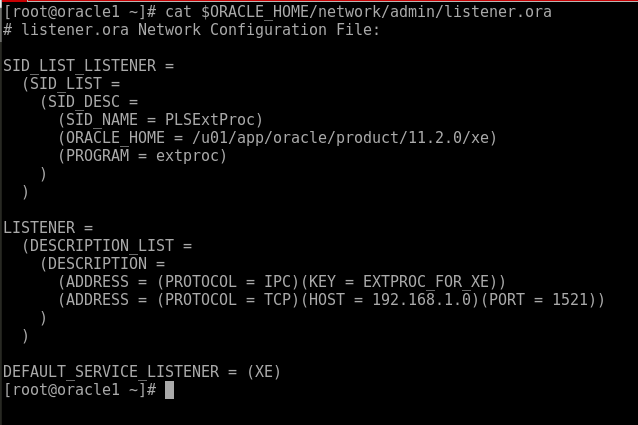
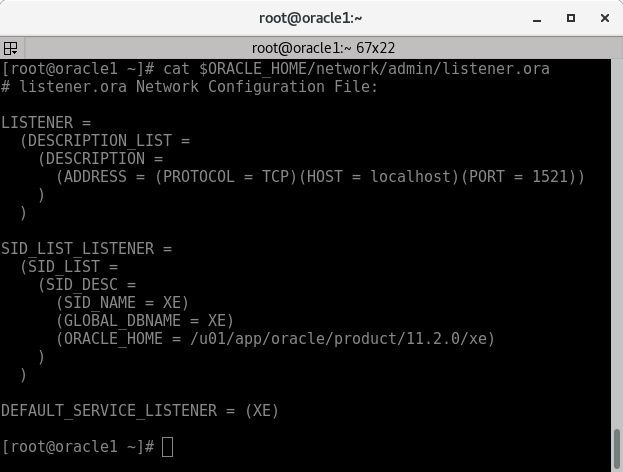
Avance en interconexión de base de datos

diff --git a/docs/css/extra.css b/docs/css/extra.css
@@ -1,14 +1,17 @@
 h1 {
 	color: red !important;
+	
 }
 
 h2{
 	margin-top: 4rem !important;
+	color: red !important;
 }
 
 h3{
 	margin-left: 10px !important;
 	margin-top: 2rem !important;
+	color: red !important;
 }
 
 code{

diff --git a/docs/blog/BBDD_1.md b/docs/blog/BBDD_1.md
@@ -18,37 +18,37 @@ Tenemos 2 máquinas Centos con Oracle 11g XE levantadas mediante Vagrant y Virtu
 ``` bash
 Vagrant.configure("2") do |config|
 
-  config.vm.define "nodo1" do |nodo1|
+	config.vm.define "nodo1" do |nodo1|
 
-    config.vm.provider "virtualbox" do |vb|
-      vb.name = "oracle1"
-      vb.memory = 2048
-      vb.cpus = 1
-    end
+		config.vm.provider "virtualbox" do |vb|
+			vb.name = "oracle1"
+			vb.memory = 2048
+			vb.cpus = 1
+		end
 
-    nodo1.vm.box = "neko-neko/centos6-oracle-11g-XE"
-    nodo1.vm.hostname = "oracle1"
-    nodo1.vm.network "public_network",
-      bridge: "wlan0", 
-      use_dhcp_assigned_default_route: true
+		nodo1.vm.box = "neko-neko/centos6-oracle-11g-XE"
+		nodo1.vm.hostname = "oracle1"
+		nodo1.vm.network "public_network",
+			bridge: "wlan0", 
+			use_dhcp_assigned_default_route: true
 
-  end
+	end
 
-  config.vm.define "nodo2" do |nodo2|
+	config.vm.define "nodo2" do |nodo2|
 
-    config.vm.provider "virtualbox" do |vb|
-      vb.name = "oracle2"
-      vb.memory = 2048
-      vb.cpus = 1
-    end
+		config.vm.provider "virtualbox" do |vb|
+			vb.name = "oracle2"
+			vb.memory = 2048
+			vb.cpus = 1
+		end
 
-    nodo2.vm.box = "neko-neko/centos6-oracle-11g-XE"
-    nodo2.vm.hostname = "oracle2"
-    nodo2.vm.network "public_network",
-      bridge: "wlan0",
-      use_dhcp_assigned_default_route: true
+		nodo2.vm.box = "neko-neko/centos6-oracle-11g-XE"
+		nodo2.vm.hostname = "oracle2"
+		nodo2.vm.network "public_network",
+			bridge: "wlan0",
+			use_dhcp_assigned_default_route: true
 
-  end
+	end
 
 end
 ```
@@ -74,23 +74,38 @@ EOF
 
 ### Fichero `listener.ora` en "servidor"
 
+Este apartado es para el servidor de escucha.
+
 Lo primero será modificar el fichero de configuración `listener.ora`. En este fichero podremos configurar el interlocutor de oracle(listener) el cual se encarga de aceptar peticiones remotas desde la red(TCP). Lo encontraremos en el directorio `$ORACLE_HOME/network/admin`. 
 
 * Quedaría algo así:
-``` bash
+``` sql
 LISTENER =
-  (DESCRIPTION_LIST =
-    (DESCRIPTION =
-      (ADDRESS = (PROTOCOL = IPC)(KEY = EXTPROC_FOR_XE))
-      (ADDRESS = (PROTOCOL = TCP)(HOST = localhost)(PORT = 1521))
-      (ADDRESS = (PROTOCOL = TCP)(HOST = 192.168.1.24)(PORT = 1522)) ## En 12c es necesario en 11g no.
+	(DESCRIPTION_LIST =
+		(DESCRIPTION =
+			(ADDRESS = (PROTOCOL = TCP)(HOST = localhost)(PORT = 1521))
+		)
+	)
+
+SID_LIST_LISTENER =
+  (SID_LIST =
+    (SID_DESC =
+      (SID_NAME = XE)
+      (GLOBAL_DBNAME = XE)
+      (ORACLE_HOME = /u01/app/oracle/product/11.2.0/xe)
     )
   )
+
+DEFAULT_SERVICE_LISTENER = (XE)
 ```
 
-!!! note ""
-  `HOST` es la ip o nombre de la máquina dónde se encuentra la instancia de Oracle, en este caso del "servidor". Podemos utilizar tantos nombres e ips que tenga.
-  `PORT` utilizamos uno distinto para cada uno.
+Lo que tenemos lo dividimos en 2 partes:
+
+* LISTENER:
+Es dónde especificamos los protocolos,IPS o nombres(HOST), puertos y etc. desde los que se podrán conectar remotamente a este servidor.
+
+* SID_LIST_LISTENER:
+Son los nombres de los servicios de escucha dónde especificamos los nombres de las instancias y directorio de las bases de datos.
 
 ![](../../img/interconexionBBDD/captura1.png)
 
@@ -99,25 +114,100 @@ LISTENER =
 lsnrctl stop && lsnrctl start
 ```
 
-!!! note ""
-	Esta acción tardará un poco( En 12c tarda en 11g no).
+* Vemos el estado del listener:
+``` bash
+lsnrctl status
+```
+
+![](../../img/interconexionBBDD/captura2.png)
+
+* Para averiguar el `SID_NAME`, `GLOBAL_DBNAME` y el nombre del servidor:
+``` sql
+SELECT SYS_CONTEXT('USERENV','INSTANCE_NAME') FROM dual;
+
+SELECT * FROM global_name;
+
+SELECT SYS_CONTEXT('USERENV', 'SERVER_HOST') FROM dual;
+```
+
+![](../../img/interconexionBBDD/captura3.png)
+
+!!! note "¿ Qué es el `SID_NAME` ?"
+	Identificador del Sistema Oracle: Es un nombre único para una instancia de Oracle Database en un host concreto. El identificador del sistema Oracle (SID) ayuda a identificar el archivo de control así como a ubicar los archivos necesarios para abrir la base de datos. Suele ser el mismo que el del `GLOBAL_DBNAME`.
 
 <hr class="h3">
 
 ### Fichero `tnsnames.ora` en "cliente"
 
-* Encontrar SID en servidor:
+Este apartado es para el cliente desde el cual nos conectaremos.
+
+Primero realizaremos varias pruebas para verificar que tenemos conexión con el servidor de escucha.
+
+* Pruebas con `tnsping`:
 ``` bash
+tnsping 192.168.1.31
+```
+
+![](../../img/interconexionBBDD/captura4.png)
+
+Como vemos el primer intento a `192.168.1.31`(Servidor de escucha) tiene éxito, pero intentamos realizar esta operación a una IP inexistente y da error.
+
+* Pruebas de conexión con `sqlplus`:
+``` bash
+rlwrap sqlplus system/vagrant@//192.168.1.31:1521/XE
+```
+
+![](../../img/interconexionBBDD/captura5.png)
+
+Podemos ver que estamos conectado al servidor de escucha con nombre "oracle1".
+
+Ahora para realizar la interconexión del servidor necesitamos configurar el fichero `tnsnames.ora`. En este fichero podemos configurar y "mapear" los nombres de los servicios que está escuchando el servidor. Lo encontraremos en el directorio `$ORACLE_HOME/network/admin`. 
+
+* Quedaría algo así:
+``` sql
+tns_ora1 =
+  (DESCRIPTION =
+    (ADDRESS = (PROTOCOL = TCP)(HOST = 192.168.1.31)(PORT = 1521))
+    (CONNECT_DATA =
+      (SERVER = DEDICATED)
+      (SERVICE_NAME = XE)
+    )
+  )
 
 ```
 
-``` bash
-Identificador del Sistema Oracle: Es un nombre único para una instancia de Oracle Database en un host concreto. El identificador del sistema Oracle (SID) ayuda a identificar el archivo de control así como a ubicar los archivos necesarios para abrir la base de datos. Al introducir el nombre de la base de datos global, Oracle Universal Installer rellena automáticamente el campo Identificador del Sistema Oracle con el nombre de la base de datos. Puede modificar este nombre en la instalación avanzada. 
+![](../../img/interconexionBBDD/captura6.png)
 
-Oracle Universal Installer limita el SID a 12 caracteres alfanuméricos para bases de datos de instancia única. Para las bases de datos Oracle RAC, el prefijo SID, que está compuesto por los ocho primeros caracteres del SID, debe ser un nombre único para cada base de datos. El SID no puede contener el carácter de subrayado (_), el signo del dólar ( $) ni la almohadilla numérica (#).
+* Volvemos a realizar una prueba con `tnsping` pero esta vez usando el nombre especificado:
+``` bash
+tnsping tna_ora1
 ```
+
+![](../../img/interconexionBBDD/captura7.png)
+
+Como vemos el primer intento a "tns_ora1"(Servidor de escucha) tiene éxito, pero intentamos realizar esta operación a un nombre no configurado y da error.
 
 <hr class="h3">
+
+### Configuración de interconexión mediante enlace de base de datos
+
+Ahora necesitamos configurar dicho enlace en el cliente desde "sqlplus".
+
+* Configuración enlace:
+``` sql
+CREATE DATABASE LINK link_ora1
+CONNECT TO scott
+IDENTIFIED BY tiger
+USING 'tns_ora1';
+```
+
+SELECT *
+FROM scott.dept@link_ora1;
+
+
+
+<hr class="h3">
+
 
 
 
@@ -125,17 +215,6 @@ Oracle Universal Installer limita el SID a 12 caracteres alfanuméricos para bas
 
 ## Interconexión entre BBDD Oracle y Postgres(o MariaDB) con Heterogeneus Services
 
-
-sqlplus sys/vagrant@//192.168.1.26:1521/XE
-
-
-![](../../img/interconexionBBDD/captura1.png)
-
-rlwrap sqlplus sys/vagrant as sysdba
-
-export NLS_LANG='SPANISH_SPAIN.AL32UTF8'
-
-sqlplus sys/Jporacle-1 as sysdba
 
 
 Creación squema scott:

diff --git a/docs/index.md b/docs/index.md
@@ -32,7 +32,7 @@ Fail2ban nos permite ver los accesos o intentos de accesos en el sistema o en se
 
 ***
 
-[Instalación Oracle Database 12c versión 2(12.1.0) Enterprise Edition en Debian Jessie 8.11  ](blog/oracleinstall.md#header1)
+[Instalación Oracle Database 12c versión 1(12.1.0) Enterprise Edition en Debian Jessie 8.11  ](blog/oracleinstall.md#header1)
 
 Y aquí llega lo que no suele ser visto con Oracle, la instalación de su software privativo de base de datos en un sistema que no está soportado, en un sistema Debian. Así es, aquí descubrimeros que entresijos tiene realizar una instalación básica en varios pasos.
 

diff --git a/docs/blog/oracleinstall.md b/docs/blog/oracleinstall.md
@@ -1,4 +1,4 @@
-# Instalación Oracle Database 12c versión 2(12.1.0) Enterprise Edition en Debian Jessie 8.11  
+# Instalación Oracle Database 12c versión 1(12.1.0) Enterprise Edition en Debian Jessie 8.11  
 
 Y aquí llega lo que no suele ser visto con Oracle, la instalación de su software privativo de base de datos en un sistema que no está soportado, en un sistema Debian. Así es, aquí descubrimeros que entresijos tiene realizar una instalación básica en varios pasos.
 
